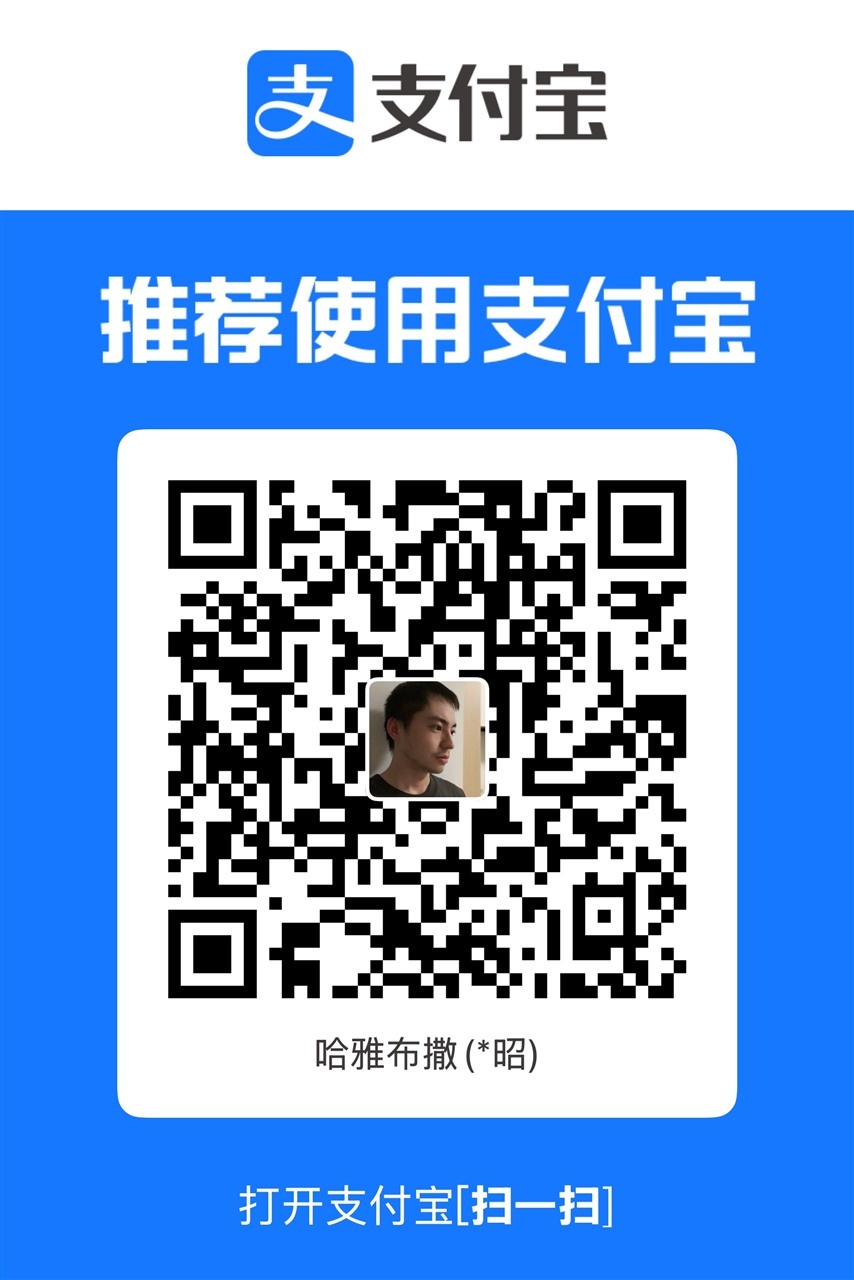
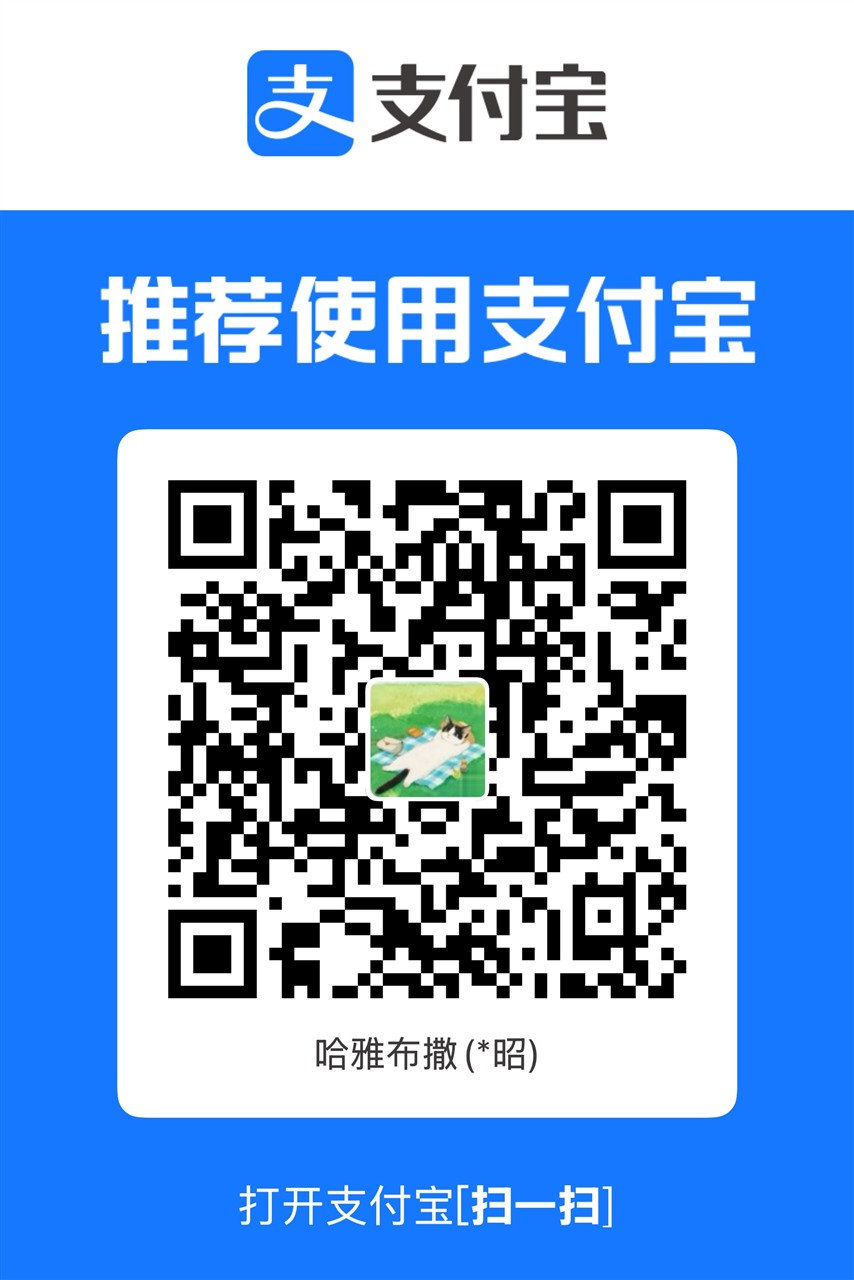
启动器：赞助移到新的「支持作者」页（金色心形菜单）；「请作者喝杯奶茶」；支付宝收款码中间的照片换成猫图

Changed region(s): [[0.4262, 0.5312, 0.5785, 0.625]]

diff --git a/launcher/src/main.cpp b/launcher/src/main.cpp
@@ -42,8 +42,8 @@ constexpr float kW = 1180, kH = 700, kNavW = 236;
 D2D1_COLOR_F rgb(uint32_t v, float a = 1.0f) { return D2D1::ColorF(v, a); }
 const uint32_t kInk = 0x0b0a0d, kInk3 = 0x2a2630, kBone = 0xece7dd, kAsh = 0xa39c92, kBlood = 0xcf3640, kGold = 0xcfa650;
 
-enum Page { kStart, kInstall, kDisplay, kGraphics, kControls, kSaves, kOnline, kAbout, kPageCount };
-const wchar_t *const kIcons[kPageCount] = {L"\xE768", L"\xE896", L"\xE7F4", L"\xE790", L"\xE7FC", L"\xE74E", L"\xE774", L"\xE946"};
+enum Page { kStart, kInstall, kDisplay, kGraphics, kControls, kSaves, kOnline, kAbout, kSupport, kPageCount };
+const wchar_t *const kIcons[kPageCount] = {L"\xE768", L"\xE896", L"\xE7F4", L"\xE790", L"\xE7FC", L"\xE74E", L"\xE774", L"\xE946", L"\xEB52"};
 
 template <class T> void release(T *&p)
 {
@@ -58,7 +58,7 @@ struct App {
     IWICImagingFactory *wic = nullptr;
     ID2D1HwndRenderTarget *rt = nullptr;
     IWICBitmapSource *hero_src = nullptr, *texture_src = nullptr; // decoded once, made into bitmaps per target
-    IWICBitmapSource *pay_src[2] = {}; // the author's WeChat Pay and Alipay codes (the About page's sponsor panel)
+    IWICBitmapSource *pay_src[2] = {}; // the author's WeChat Pay and Alipay codes (the Support page)
     Page page = kStart;
     int hover = -1; // hit id under the mouse
     bool pressed = false;
@@ -118,7 +118,7 @@ enum {
     kHitGain = 270, kHitGamma, kHitWin = 280, kHitVsync = 290, kHitHud = 294, kHitResList = 300, kHitShadow = 320, kHitAniso = 340,
     kHitCtlTab = 600, kHitKey = 620, kHitPadMap = 700, // + input * 2 + slot; + button * 16 (+ 1 + row: its list)
     kHitWebsite = 490, kHitOpenSaves = 500, kHitBackupNow, kHitOpenBackups, kHitPickXrevive, kHitImport, kHitExport, kHitRestore = 510,
-    kHitOnline = 520, kHitPickEeprom = 530, kHitPickHdd, kHitDnsMode = 540, kHitNetCheck = 545, kHitInsignia, kHitDnsAddr, kHitDnsFind, kHitHelpRegister, kHitSponsor
+    kHitOnline = 520, kHitPickEeprom = 530, kHitPickHdd, kHitDnsMode = 540, kHitNetCheck = 545, kHitInsignia, kHitDnsAddr, kHitDnsFind, kHitHelpRegister
 };
 // Render resolution: "the window's size" or 1x to 10x the game's 720x480 buffer (the game asks for 720x480 at
 // CreateDevice; black.log). Widescreen widens the width by 4/3 (anamorphic); a width is at most 8192, Direct3D 9's
@@ -1025,9 +1025,9 @@ struct Painter {
             } else if (hov) {
                 fill(r, kBone, 0.05f, 4);
             }
-            uint32_t c = sel || hov ? kBone : kAsh;
-            text(kIcons[i], {r.left + 18, r.top, r.left + 44, r.bottom}, 17, sel ? kBlood : c, 1.0f, DWRITE_FONT_WEIGHT_NORMAL,
-                 L"Segoe Fluent Icons");
+            uint32_t c = sel || hov ? kBone : i == kSupport ? kGold : kAsh; // Support stands out in gold, heart and all
+            text(kIcons[i], {r.left + 18, r.top, r.left + 44, r.bottom}, 17, sel ? kBlood : i == kSupport ? kGold : c, 1.0f,
+                 DWRITE_FONT_WEIGHT_NORMAL, L"Segoe Fluent Icons");
             text(S((Str)((int)Str::NavStart + i)), {r.left + 52, r.top, r.right - 8, r.bottom}, 15, c, 1.0f,
                  sel ? DWRITE_FONT_WEIGHT_SEMI_BOLD : DWRITE_FONT_WEIGHT_NORMAL);
         }
@@ -1121,6 +1121,43 @@ struct Painter {
         }
         text(label, r, primary ? 15.5f : 13.5f, enabled ? kBone : kAsh, enabled ? 1.0f : 0.6f,
              primary ? DWRITE_FONT_WEIGHT_SEMI_BOLD : DWRITE_FONT_WEIGHT_NORMAL, nullptr, DWRITE_TEXT_ALIGNMENT_CENTER);
+    }
+
+    // Support: the author's note, then the WeChat Pay and Alipay codes side by side under it
+    void support_page()
+    {
+        const float x = kNavW + 56, w = 800;
+        text(S(Str::SponsorTitle), {x, 46, x + 700, 98}, 32, kBone, 1.0f, DWRITE_FONT_WEIGHT_BOLD);
+        fill({x, 102, x + 36, 104}, kBlood);
+        D2D1_RECT_F c = {x, 116, x + w, 326};
+        fill(c, kInk, 0.66f);
+        stroke(c, kInk3);
+        fill({c.left, c.top, c.left + 3, c.bottom}, kGold, 0.8f);
+        IDWriteTextFormat *fmt = nullptr;
+        if (SUCCEEDED(g.dw->CreateTextFormat(g_lang == Lang::Zh ? L"Microsoft YaHei UI" : L"Segoe UI", nullptr,
+                                             DWRITE_FONT_WEIGHT_NORMAL, DWRITE_FONT_STYLE_NORMAL, DWRITE_FONT_STRETCH_NORMAL, 14,
+                                             g_lang == Lang::Zh ? L"zh-cn" : L"en-us", &fmt))) {
+            fmt->SetLineSpacing(DWRITE_LINE_SPACING_METHOD_UNIFORM, 22, 17);
+            ID2D1SolidColorBrush *b = nullptr;
+            rt->CreateSolidColorBrush(rgb(kBone, 0.92f), &b);
+            const wchar_t *t = S(Str::SponsorText);
+            if (b) rt->DrawText(t, (UINT32)wcslen(t), fmt, {c.left + 26, c.top + 18, c.right - 26, c.bottom - 12}, b), b->Release();
+            fmt->Release();
+        }
+        if (!pay) return;
+        const float top = c.bottom + 16, bottom = kH - 16, gap = 40;
+        float ws[2] = {}, total = gap;
+        for (int i = 0; i < 2; i++)
+            if (pay[i]) {
+                D2D1_SIZE_F sz = pay[i]->GetSize();
+                total += ws[i] = (bottom - top) * sz.width / sz.height;
+            }
+        float px = x + (w - total) / 2;
+        for (int i = 0; i < 2; i++) {
+            if (!pay[i]) continue;
+            rt->DrawBitmap(pay[i], {px, top, px + ws[i], bottom}, 1.0f, D2D1_BITMAP_INTERPOLATION_MODE_LINEAR);
+            px += ws[i] + gap;
+        }
     }
 
     // A card with a gold edge and a heading; returns the content's top
@@ -1231,14 +1268,11 @@ struct Painter {
         g_hits.push_back({kHitHelpClose, {0, 0, kW, kH}}); // a click outside the panel closes it (the panel's own hits come later)
         bool image = g.help == kHitHelpImage, setting = g.help >= kHitHelpSet && g.help < kHitHelpSet + kSettingHelpCount;
         bool reg = g.help == kHitHelpRegister; // the registration steps: a larger panel
-        bool sponsor = g.help == kHitSponsor;  // the text, then the two payment codes side by side: larger still
         bool big = reg || (setting && kSettingHelp[g.help - kHitHelpSet].label == Str::DnsCard); // so is DNS's
-        Str title = setting ? kSettingHelp[g.help - kHitHelpSet].label : image ? Str::FromImage : reg ? Str::RegisterTitle
-                  : sponsor ? Str::SponsorTitle : Str::InstalledGame;
+        Str title = setting ? kSettingHelp[g.help - kHitHelpSet].label : image ? Str::FromImage : reg ? Str::RegisterTitle : Str::InstalledGame;
         Str body_text = setting ? kSettingHelp[g.help - kHitHelpSet].help : image ? Str::HelpFromImage
-                      : reg ? Str::HelpRegister : sponsor ? Str::SponsorText : Str::HelpInstalled;
-        const float pw = big || sponsor ? 820.0f : 640.0f, ph = sponsor ? 680.0f : big ? 640.0f : 460.0f, px = (kW - pw) / 2,
-                    py = (kH - ph) / 2;
+                      : reg ? Str::HelpRegister : Str::HelpInstalled;
+        const float pw = big ? 820.0f : 640.0f, ph = big ? 640.0f : 460.0f, px = (kW - pw) / 2, py = (kH - ph) / 2;
         D2D1_RECT_F p = {px, py, px + pw, py + ph};
         fill(p, 0x16141a, 0.98f, 6);
         stroke(p, kInk3, 1.0f, 6);
@@ -1246,18 +1280,7 @@ struct Painter {
         g_hits.push_back({0x7fff, p}); // inside the panel: nothing (the topmost hit wins over the close area)
         text(S(title), {p.left + 34, p.top + 22, p.right - 30, p.top + 58}, 19, kBone, 1.0f, DWRITE_FONT_WEIGHT_BOLD);
         fill({p.left + 34, p.top + 62, p.left + 64, p.top + 64}, kBlood);
-        D2D1_RECT_F body = {p.left + 34, p.top + 78, p.right - 34, sponsor ? p.top + 272 : p.bottom - 74};
-        if (sponsor && pay) { // each code at its own aspect, bottoms aligned, left of the button
-            float x = p.left + 34;
-            const float top = p.top + 280, bottom = p.bottom - 24;
-            for (int i = 0; i < 2; i++) {
-                if (!pay[i]) continue;
-                D2D1_SIZE_F sz = pay[i]->GetSize();
-                float w = (bottom - top) * sz.width / sz.height;
-                rt->DrawBitmap(pay[i], {x, top, x + w, bottom}, 1.0f, D2D1_BITMAP_INTERPOLATION_MODE_LINEAR);
-                x += w + 30;
-            }
-        }
+        D2D1_RECT_F body = {p.left + 34, p.top + 78, p.right - 34, p.bottom - 74};
         IDWriteTextFormat *fmt = nullptr;
         if (SUCCEEDED(g.dw->CreateTextFormat(g_lang == Lang::Zh ? L"Microsoft YaHei UI" : L"Segoe UI", nullptr,
                                              DWRITE_FONT_WEIGHT_NORMAL, DWRITE_FONT_STYLE_NORMAL, DWRITE_FONT_STRETCH_NORMAL, 14,
@@ -1785,7 +1808,6 @@ struct Painter {
         fill({x, 102, x + 36, 104}, kBlood);
         D2D1_RECT_F c = {x, 116, x + w, 116 + 50 + 52 + 8 * 31 + 6};
         float y = card(c, S(Str::AboutTitle));
-        button(kHitSponsor, {c.right - 170, c.top + 12, c.right - 20, c.top + 42}, S(Str::Sponsor), false);
         text(S(Str::AboutDesc), {lx, y, c.right - 20, y + 48}, 13.5f, kBone, 0.92f);
         y += 52;
         auto row = [&](Str label, const std::wstring &v, int link) { // link: kLinks index to open on a click, or -1
@@ -1946,6 +1968,7 @@ struct Painter {
         else if (g.page == kGraphics) graphics_page();
         else if (g.page == kSaves) saves_page();
         else if (g.page == kAbout) about_page();
+        else if (g.page == kSupport) support_page();
         else if (g.page == kControls) controls_page();
         else if (g.page == kOnline) online_page();
         else placeholder_page();
@@ -2302,7 +2325,7 @@ LRESULT CALLBACK wndproc(HWND h, UINT msg, WPARAM wp, LPARAM lp)
             InvalidateRect(h, nullptr, FALSE);
             return 0;
         }
-        if (id == kHitHelpImage || id == kHitHelpInstalled || id == kHitHelpRegister || id == kHitSponsor || (id >= kHitHelpSet && id < kHitHelpSet + kSettingHelpCount)) g.help = id;
+        if (id == kHitHelpImage || id == kHitHelpInstalled || id == kHitHelpRegister || (id >= kHitHelpSet && id < kHitHelpSet + kSettingHelpCount)) g.help = id;
         else if (id >= 0 && id < kPageCount) {
             g.page = (Page)id;
             if (g.page == kSaves) g.saves_read = false; // read the disk again when the page is opened
@@ -2496,11 +2519,10 @@ int WINAPI wWinMain(HINSTANCE inst, HINSTANCE, PWSTR, int show)
                           : !wcscmp(argv[i + 1], L"aniso")  ? kHitAniso
                           : !wcscmp(argv[i + 1], L"padmap") ? kHitPadMap
                                                             : kHitResList;
-        if (!wcscmp(argv[i], L"--show-help") && i + 1 < argc) // with --snap: open a "?" panel (image | installed | register | sponsor | 0..12 a setting's)
+        if (!wcscmp(argv[i], L"--show-help") && i + 1 < argc) // with --snap: open a "?" panel (image | installed | register | 0..12 a setting's)
             g.help = !wcscmp(argv[i + 1], L"image")       ? kHitHelpImage
                      : !wcscmp(argv[i + 1], L"installed") ? kHitHelpInstalled
                      : !wcscmp(argv[i + 1], L"register")  ? kHitHelpRegister
-                     : !wcscmp(argv[i + 1], L"sponsor")   ? kHitSponsor
                                                           : kHitHelpSet + _wtoi(argv[i + 1]);
         if (!wcscmp(argv[i], L"--game") && i + 1 < argc) { // with --snap: this game folder
             g.game = std::wstring(argv[i + 1]) + L"\\default.xbe";

diff --git a/launcher/src/strings.cpp b/launcher/src/strings.cpp
@@ -19,6 +19,7 @@ const Pair kText[(int)Str::Count] = {
     {L"存档", L"Saves"},
     {L"联网", L"Online"},
     {L"关于", L"About"},
+    {L"支持作者", L"Support"},
     {L"忍者龙剑传  黑之章", L"NINJA GAIDEN BLACK"},
     {L"飓风版 · 中英文版 · PC 原生移植", L"Hurricane edition · Chinese / English · native PC port"},
     {L"开始游戏", L"PLAY"},
@@ -453,15 +454,13 @@ const Pair kText[(int)Str::Count] = {
      L"5  Create the account on the dashboard: country, gamertag, the code. The service is free: at the card step use the test number 4111 1111 1111 1111 and made-up details, as the guide says, never a real card; the billing email must be the one you got the code with. Then set a pass code.\n\n"
      L"6  Back here: close xemu and choose its EEPROM (e.g. eeprom.bin) and hard disk image (e.g. xbox_hdd.qcow2) above; xemu’s System settings show where they are. The Console row then shows registered and your gamertag.\n\n"
      L"Back up both files first. For the details in xemu, Insignia’s site and Discord have the last word."},
-    {L"请作者喝杯茶",
-     L"Buy me a tea"},
-    {L"请作者喝杯茶",
-     L"Buy the author a tea"},
+    {L"请作者喝杯奶茶",
+     L"Buy the author a milk tea"},
     {L"《黑之章》的中文汉化、飓风补丁，还有这个 PC 原生移植版，都是我做的。移植版从拆解原版程序做起，画面、声音、存档、联网，到最近修好的手柄震动，一点点接到了 PC 上。它们都免费，以后也一直免费，赞不赞助都不影响你玩到的任何内容。\n\n"
-     L"如果它让你又一次握起了龙剑，觉得值一杯茶，扫下面任意一个码就好。转账时请备注姓名或昵称，好让我知道这份心意来自谁。\n\n"
+     L"如果它让你又一次握起了龙剑，觉得值一杯奶茶，扫下面任意一个码就好。转账时请备注姓名或昵称，好让我知道这份心意来自谁。\n\n"
      L"不方便也完全没关系：玩得开心，遇到问题告诉我，一样是在帮它变得更好。",
      L"The Chinese translation of Ninja Gaiden Black, the Hurricane patch and this native PC port are all my work. The port was built up from the original program piece by piece: graphics, sound, saves, online play, and lately the controller’s rumble. All of it is free and will stay free; nothing in it depends on a donation.\n\n"
-     L"If it put the Dragon Sword back in your hands and feels worth a cup of tea, either code below works (WeChat Pay, Alipay). Please put your name or nickname in the note, so I know who it came from.\n\n"
+     L"If it put the Dragon Sword back in your hands and feels worth a milk tea, either code below works (WeChat Pay, Alipay). Please put your name or nickname in the note, so I know who it came from.\n\n"
      L"If not, that is perfectly fine: enjoy the game, and tell me about anything that goes wrong. That helps just as much."},
 };
 

diff --git a/launcher/src/strings.h b/launcher/src/strings.h
@@ -15,6 +15,7 @@ enum class Str {
     NavSaves,
     NavOnline,
     NavAbout,
+    NavSupport, // the author's WeChat Pay and Alipay codes
     Title,
     Subtitle,
     Play,
@@ -285,8 +286,7 @@ enum class Str {
     RegisterSteps, // the sign-in card's button and its panel: registering in xemu, step by step
     RegisterTitle,
     HelpRegister,
-    Sponsor, // the About card's button and its panel: the author's WeChat Pay and Alipay codes
-    SponsorTitle,
+    SponsorTitle, // the Support page
     SponsorText,
     Count
 };

diff --git a/launcher/art/SOURCES.md b/launcher/art/SOURCES.md
@@ -21,7 +21,10 @@ Both programs carry it through PORT_ICON (loader/CMakeLists.txt). The artwork is
 
 ## `pay_wechat.jpg`, `pay_alipay.jpg`: the author's payment codes
 
-The author's own WeChat Pay and Alipay receiving codes, given on 2026-10-23 for the About page's "请作者喝杯茶" panel
+The author's own WeChat Pay and Alipay receiving codes, given on 2026-10-23 for the launcher's "支持作者" (Support) page
 ("如果玩家有兴趣赞助，请备注姓名"), published as they are at the author's decision ("照原样发吧"). The WeChat one is the file as
-given (828x1124); the Alipay one is the given 1708x2560 image halved to 854x1280 (JPEG quality 92). SHA-256 (first 20
-hex): `pay_wechat.jpg` `d05784b833486a388ebf`, `pay_alipay.jpg` `f6acafe36eba4b25cdda`.
+given (828x1124); the Alipay one is the given 1708x2560 image halved to 854x1280 (JPEG quality 92). At the author's request ("把支付宝二维码中间
+我的照片换成另外微信中间的图片") the photo in the Alipay code's centre (box x 738-969, y 1362-1593 of the given image) was replaced
+with the WeChat code's centre picture (x 365-461, y 420-515; the WeChat badge over its corner filled from the neighbouring
+pixels), scaled into the box with rounded corners; no pixel outside the box changed, so the code's modules are as given. SHA-256 (first 20
+hex): `pay_wechat.jpg` `d05784b833486a388ebf`, `pay_alipay.jpg` `768f8ad648ed09abcc85`.

diff --git a/project/docs/08_PC启动器计划.md b/project/docs/08_PC启动器计划.md
@@ -125,3 +125,7 @@
   一直免费；值一杯茶就扫码，请备注姓名或昵称；不赞助也没关系），下面并排作者的微信、支付宝收款码（RCDATA 103 / 104，图片出处
   见 `launcher/art/SOURCES.md`）。`--snap OUT 7 --show-help sponsor [--lang en]` 中英文截图检查过没有截断。只在启动器里，
   不影响游戏性能。
+- **2026-10-23 「支持作者」页**（用户：「赞助希望放的一个新的菜单，你起个名字」；「请作者喝杯奶茶的按钮做漂亮一点，醒目一点」；
+  「把支付宝二维码中间我的照片换成另外微信中间的图片」）：赞助从「关于」页的按钮与弹出面板移到导航最后一项「支持作者」/ Support
+  （实心心形图标，没选中时整项金色）。页面：大标题「请作者喝杯奶茶」、文案卡片、下面居中并排两个收款码。「茶」改为「奶茶」。
+  支付宝码中间的照片换成微信码中间的猫图，替换只在原照片框内（框外 0 像素变化）。`--snap OUT 8 [--lang en]` 截图检查过。

diff --git a/README.md b/README.md
@@ -83,7 +83,7 @@ vb-zh-x2.1 游戏镜像。不需要另外安装任何运行环境：用到的 Di
    装好后直接双击 `Ninja Gaiden Black Hurricane.exe` 也能开始游戏（它会找启动器装好的游戏）。
 3. 在「显示」「图形」「控制」页按需要调整（按「保存」才生效，每项旁的「?」有说明），回到「开始游戏」页开始。
 
-「存档」页可以备份 / 还原存档、与 xRevive 互相导入导出；「关于」页有版本与法律声明，还有「请作者喝杯茶」（作者的微信、支付宝收款码，赞助全凭自愿）。
+「存档」页可以备份 / 还原存档、与 xRevive 互相导入导出；「关于」页有版本与法律声明；「支持作者」页有作者的微信、支付宝收款码，赞助全凭自愿。
 
 **用 run.bat（开发用）**：仓库根目录的 `run.bat` 按下面的结构直接启动游戏，不经过启动器：
 

diff --git a/README.en.md b/README.en.md
@@ -100,7 +100,7 @@ XInput come with Windows, and the C++ runtime is built into the programs.
 3. Adjust the Display, Graphics and Controls pages if you like (changes apply once saved; each "?" explains its
    setting), then start from the Play page.
 
-The Saves page backs up and restores saves and imports from / exports to xRevive; About has the version, the legal note and "Buy me a tea" (the author's WeChat Pay and Alipay codes; giving is entirely optional).
+The Saves page backs up and restores saves and imports from / exports to xRevive; About has the version and the legal note; Support has the author's WeChat Pay and Alipay codes (giving is entirely optional).
 
 **With run.bat (for development)**: `run.bat` in the repository root starts the game directly, without the launcher,
 from this layout:
